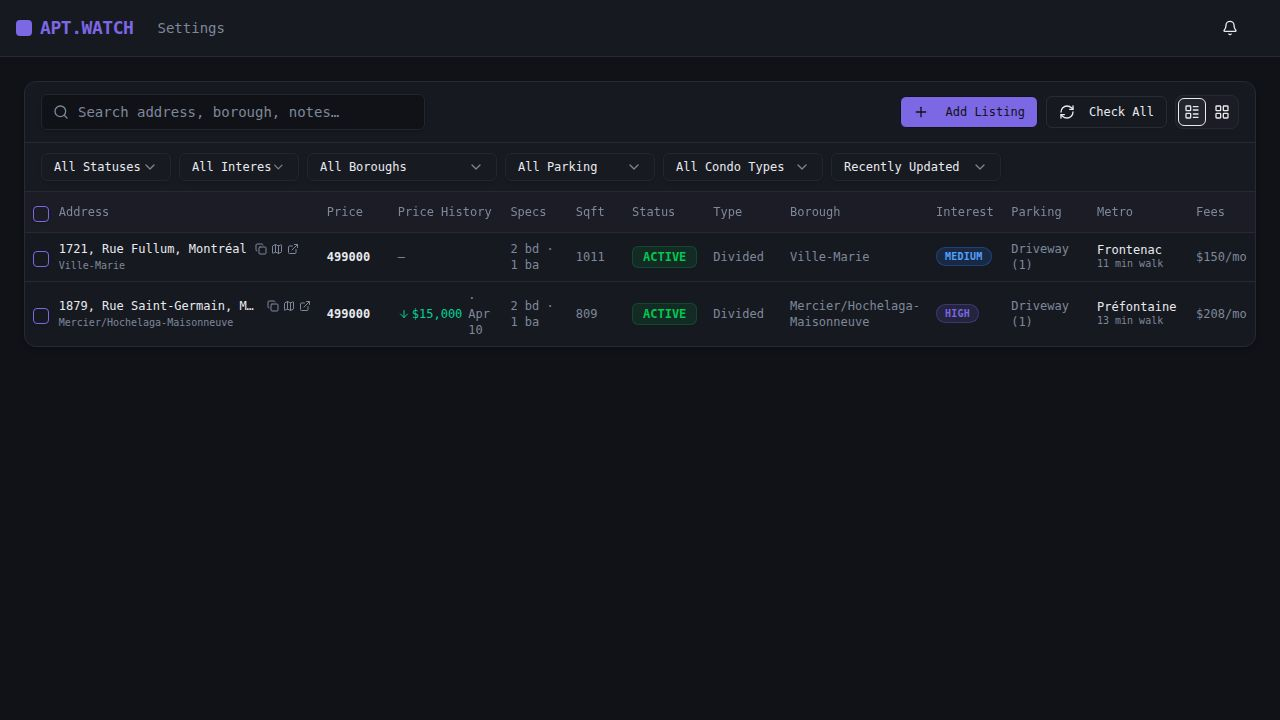
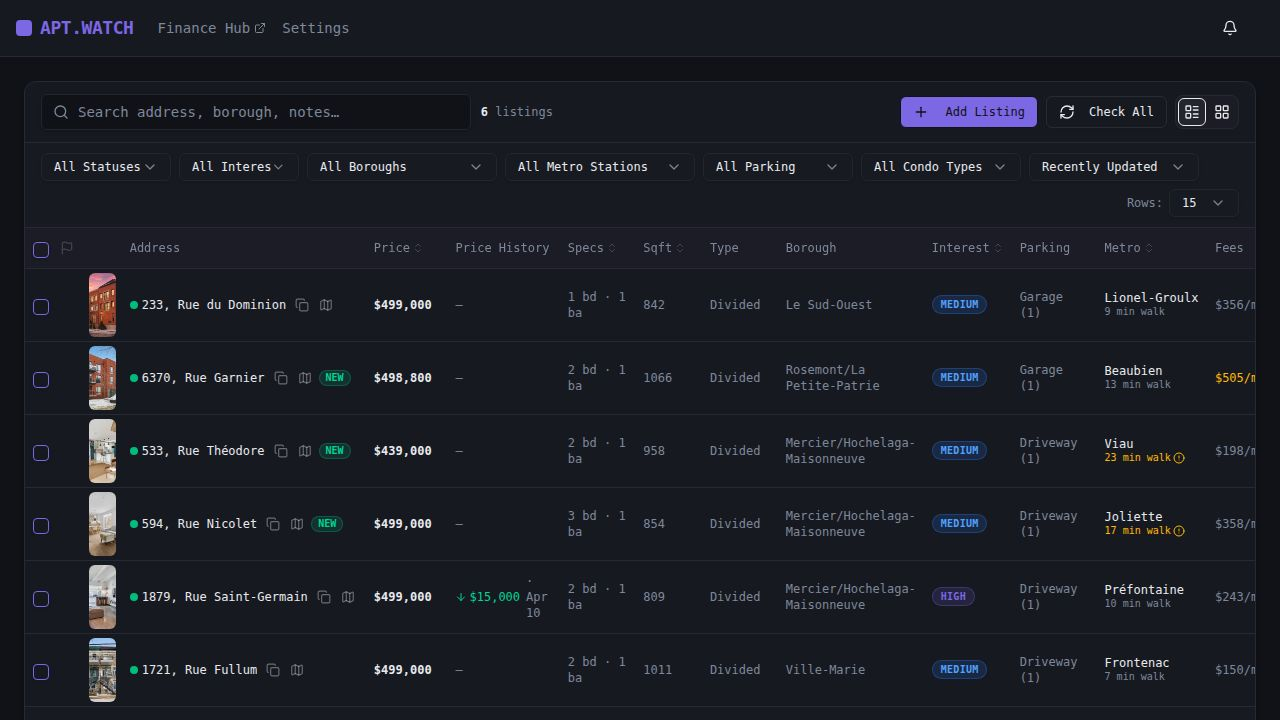
Add sorting and warning indicators for fees and taxes on listings
Update Home.tsx to enable sorting by condo fees and taxes, introduce a threshold for fee/tax warning indicators, and replace text-based metro warnings with icons.

Replit-Commit-Author: Agent
Replit-Commit-Session-Id: 33f9d080-1c18-44f3-941a-8dcb4ea28fc1
Replit-Commit-Checkpoint-Type: full_checkpoint
Replit-Commit-Event-Id: 3815d1c5-942b-43f6-9ea8-a4f182661214
Replit-Commit-Screenshot-Url: https://storage.googleapis.com/screenshot-production-us-central1/f28c78ed-1ba2-401c-a61d-47a0a769ed63/33f9d080-1c18-44f3-941a-8dcb4ea28fc1/bue3RCF
Replit-Helium-Checkpoint-Created: true

diff --git a/artifacts/apartment-watchlist/src/pages/Home.tsx b/artifacts/apartment-watchlist/src/pages/Home.tsx
@@ -35,6 +35,7 @@ import {
   ChevronsUpDown,
   MoreVertical,
   Flag,
+  AlertCircle,
 } from "lucide-react";
 import { format, differenceInMinutes, differenceInHours, differenceInDays } from "date-fns";
 
@@ -113,6 +114,13 @@ function toMonthly(value: string | null | undefined): string {
   if (/\/mo/i.test(value)) return `$${Math.round(num).toLocaleString("en-CA")}/mo`;
   // Legacy or alternate format: treat as yearly and convert
   return `$${Math.round(num / 12).toLocaleString("en-CA")}/mo`;
+}
+
+/** Extracts the numeric monthly dollar value from strings like "$243/mo". Returns Infinity for null/missing. */
+function parseMonthly(s: string | null | undefined): number {
+  if (!s) return Infinity;
+  const m = s.match(/[\d,]+/);
+  return m ? Number(m[0].replace(/,/g, "")) : Infinity;
 }
 
 function timeAgo(dateStr: string | null | undefined): string {
@@ -361,7 +369,7 @@ export default function Home() {
     search: debouncedSearch || undefined,
     status: status !== "all" ? status : undefined,
     interestLevel: interestLevel !== "all" ? interestLevel : undefined,
-    sortBy,
+    sortBy: (sortBy === "condoFees" || sortBy === "taxes") ? "updatedAt" : sortBy,
     sortDir,
   };
 
@@ -390,14 +398,25 @@ export default function Home() {
 
   const listings = useMemo(() => {
     if (!allListings) return [];
-    return allListings.filter((l) => {
+    let filtered = allListings.filter((l) => {
       if (borough !== "all" && l.neighborhood !== borough) return false;
       if (parkingInfo !== "all" && l.parkingInfo !== parkingInfo) return false;
       if (condoType !== "all" && l.propertyType !== condoType) return false;
       if (metro !== "all" && l.nearestMetro !== metro) return false;
       return true;
     });
-  }, [allListings, borough, parkingInfo, condoType, metro]);
+    // condoFees / taxes are text columns — sort client-side after filtering
+    if (sortBy === "condoFees" || sortBy === "taxes") {
+      filtered = [...filtered].sort((a, b) => {
+        if (a.visitNext && !b.visitNext) return -1;
+        if (!a.visitNext && b.visitNext) return 1;
+        const va = parseMonthly(sortBy === "condoFees" ? a.condoFees : a.taxes);
+        const vb = parseMonthly(sortBy === "condoFees" ? b.condoFees : b.taxes);
+        return sortDir === "asc" ? va - vb : vb - va;
+      });
+    }
+    return filtered;
+  }, [allListings, borough, parkingInfo, condoType, metro, sortBy, sortDir]);
 
   const totalCount = allListings?.length ?? 0;
   const filteredCount = listings.length;
@@ -634,6 +653,10 @@ export default function Home() {
               <SelectItem value="currentPrice-asc">Price ↑</SelectItem>
               <SelectItem value="currentPrice-desc">Price ↓</SelectItem>
               <SelectItem value="firstSavedAt-desc">Recently Added</SelectItem>
+              <SelectItem value="condoFees-asc">Fees ↑</SelectItem>
+              <SelectItem value="condoFees-desc">Fees ↓</SelectItem>
+              <SelectItem value="taxes-asc">Taxes ↑</SelectItem>
+              <SelectItem value="taxes-desc">Taxes ↓</SelectItem>
             </SelectContent>
           </Select>
 
@@ -877,18 +900,29 @@ export default function Home() {
                           {listing.nearestMetro ? (
                             <div className="flex flex-col leading-tight">
                               <span className="font-medium truncate max-w-[110px]">{listing.nearestMetro}</span>
-                              <span className={`text-[10px] ${Number(listing.walkingMinutes) > 15 ? "text-amber-400" : "text-muted-foreground"}`}>
-                                {listing.walkingMinutes} min walk{Number(listing.walkingMinutes) > 15 && " !"}
+                              <span className={`text-[10px] flex items-center gap-0.5 ${Number(listing.walkingMinutes) > 15 ? "text-amber-400" : "text-muted-foreground"}`}>
+                                {listing.walkingMinutes} min walk
+                                {Number(listing.walkingMinutes) > 15 && <AlertCircle className="w-3 h-3" />}
                               </span>
                             </div>
                           ) : "—"}
                         </TableCell>
 
                         {/* Condo Fees/mo */}
-                        <TableCell className="text-muted-foreground tabular-nums">{fmt(listing.condoFees)}</TableCell>
+                        <TableCell className={`tabular-nums ${parseMonthly(listing.condoFees) > 450 ? "text-amber-400" : "text-muted-foreground"}`}>
+                          <span className="flex items-center gap-1">
+                            {fmt(listing.condoFees)}
+                            {parseMonthly(listing.condoFees) > 450 && <AlertCircle className="w-3 h-3 shrink-0" />}
+                          </span>
+                        </TableCell>
 
                         {/* Tax/mo */}
-                        <TableCell className="text-muted-foreground tabular-nums">{toMonthly(listing.taxes)}</TableCell>
+                        <TableCell className={`tabular-nums ${parseMonthly(listing.taxes) > 450 ? "text-amber-400" : "text-muted-foreground"}`}>
+                          <span className="flex items-center gap-1">
+                            {toMonthly(listing.taxes)}
+                            {parseMonthly(listing.taxes) > 450 && <AlertCircle className="w-3 h-3 shrink-0" />}
+                          </span>
+                        </TableCell>
 
                         {/* Notes + actions */}
                         <TableCell>
@@ -956,8 +990,10 @@ export default function Home() {
                   { label: "Sqft", field: "squareFeet", defaultDir: "desc" },
                   { label: "Interest", field: "interestLevel", defaultDir: "desc" },
                   { label: "Metro", field: "walkingMinutes", defaultDir: "asc" },
+                  { label: "Fees", field: "condoFees", defaultDir: "asc" },
+                  { label: "Taxes", field: "taxes", defaultDir: "asc" },
                   { label: "Recent", field: "updatedAt", defaultDir: "desc" },
-                ] as const).map(({ label, field, defaultDir }) => {
+                ] as { label: string; field: string; defaultDir: "asc" | "desc" }[]).map(({ label, field, defaultDir }) => {
                   const active = sortBy === field;
                   return (
                     <button
@@ -1127,8 +1163,9 @@ export default function Home() {
                           <div className="flex items-center gap-2 text-xs text-muted-foreground">
                             <Train className="w-3.5 h-3.5 flex-shrink-0 text-primary/70" />
                             <span className="font-medium text-foreground/80">{listing.nearestMetro}</span>
-                            <span className={Number(listing.walkingMinutes) > 15 ? "text-amber-400" : ""}>
-                              · {listing.walkingMinutes} min walk{Number(listing.walkingMinutes) > 15 && " !"}
+                            <span className={`flex items-center gap-0.5 ${Number(listing.walkingMinutes) > 15 ? "text-amber-400" : ""}`}>
+                              · {listing.walkingMinutes} min walk
+                              {Number(listing.walkingMinutes) > 15 && <AlertCircle className="w-3 h-3" />}
                             </span>
                           </div>
                         )}
@@ -1139,11 +1176,17 @@ export default function Home() {
                         <div className="grid grid-cols-2 gap-1.5">
                           <div className="rounded bg-muted/40 px-2 py-1">
                             <p className="text-[9px] text-muted-foreground uppercase tracking-wide">Condo fees</p>
-                            <p className="text-xs font-semibold tabular-nums">{fmt(listing.condoFees)}</p>
+                            <p className={`text-xs font-semibold tabular-nums flex items-center gap-1 ${parseMonthly(listing.condoFees) > 450 ? "text-amber-400" : ""}`}>
+                              {fmt(listing.condoFees)}
+                              {parseMonthly(listing.condoFees) > 450 && <AlertCircle className="w-3 h-3 shrink-0" />}
+                            </p>
                           </div>
                           <div className="rounded bg-muted/40 px-2 py-1">
                             <p className="text-[9px] text-muted-foreground uppercase tracking-wide">Tax</p>
-                            <p className="text-xs font-semibold tabular-nums">{toMonthly(listing.taxes)}</p>
+                            <p className={`text-xs font-semibold tabular-nums flex items-center gap-1 ${parseMonthly(listing.taxes) > 450 ? "text-amber-400" : ""}`}>
+                              {toMonthly(listing.taxes)}
+                              {parseMonthly(listing.taxes) > 450 && <AlertCircle className="w-3 h-3 shrink-0" />}
+                            </p>
                           </div>
                         </div>
 
